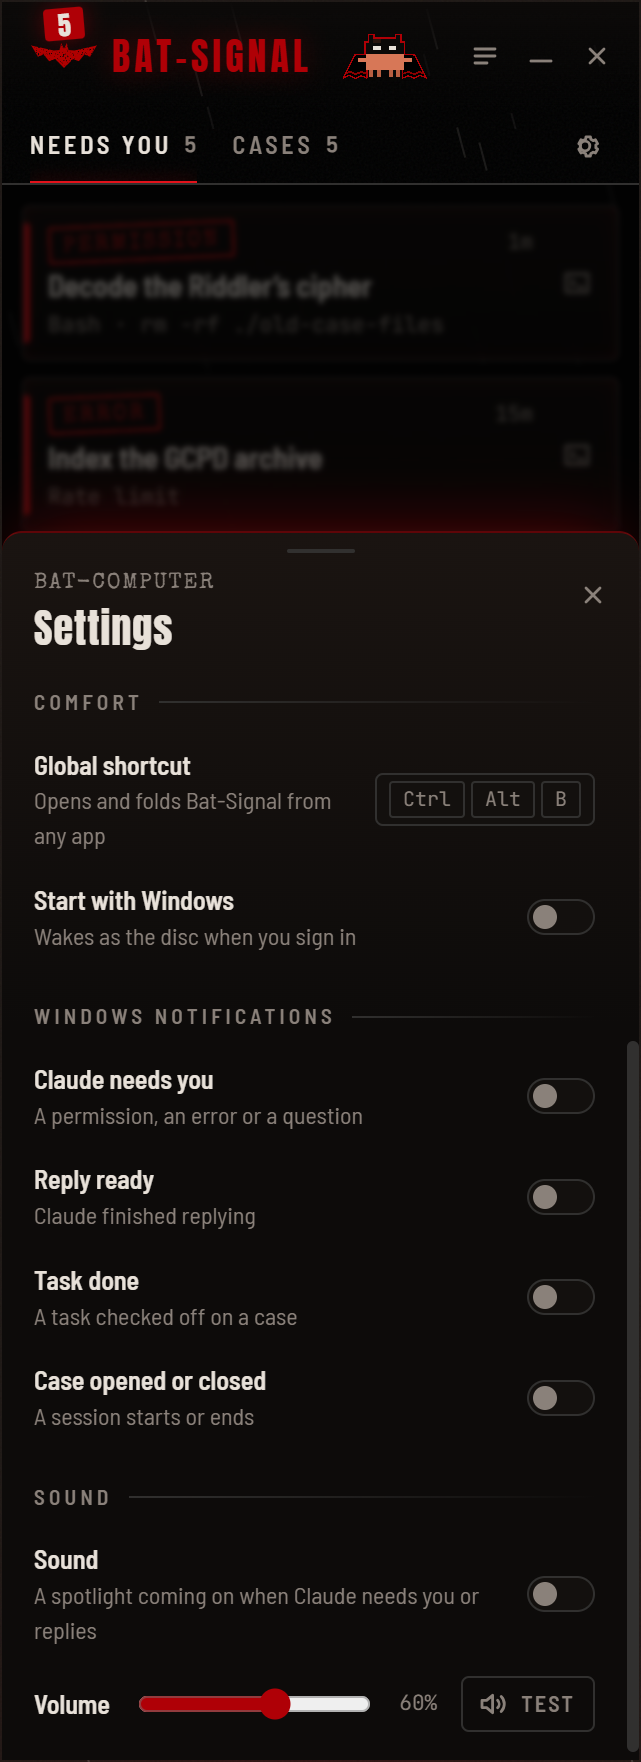
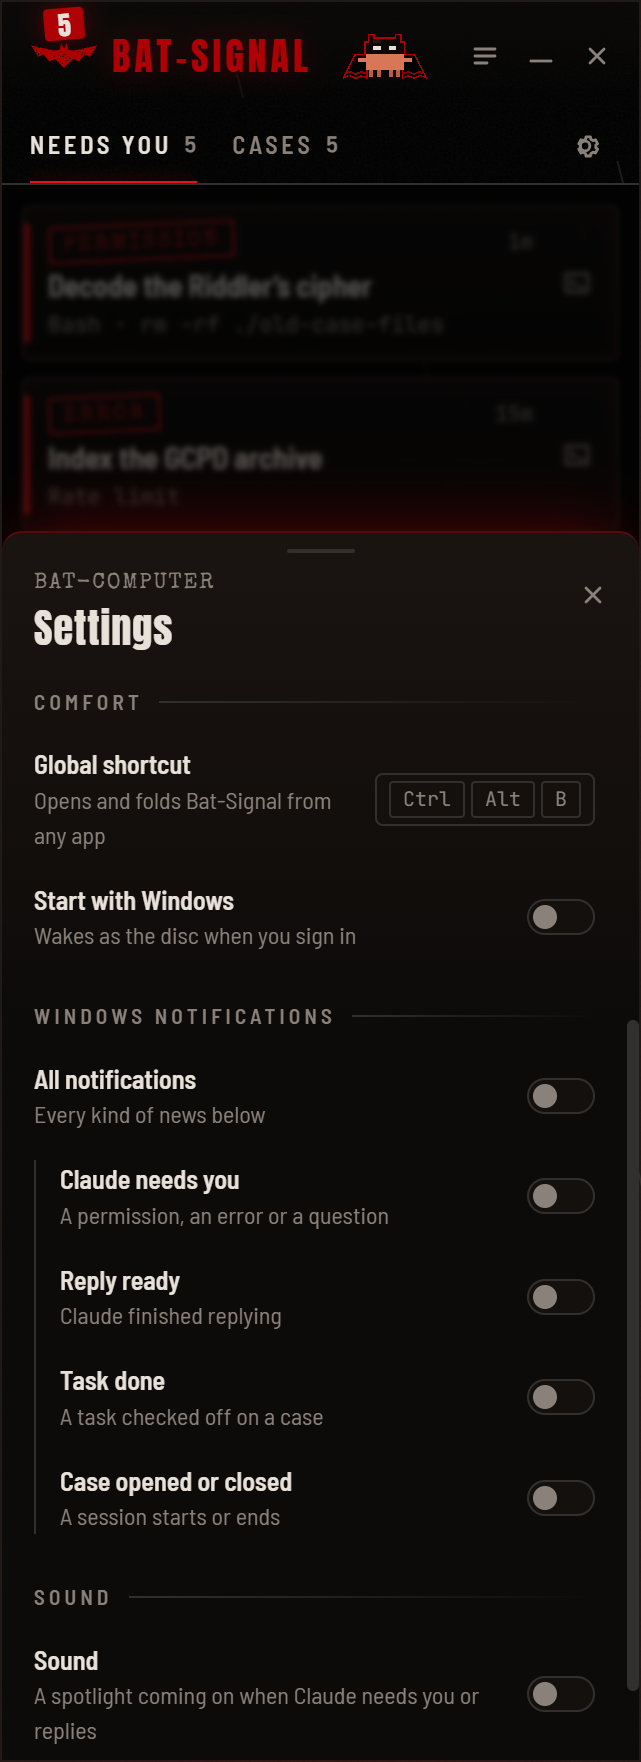
docs: All notifications in the README and the Comfort screenshot
Refs #65

diff --git a/README.md b/README.md
@@ -87,7 +87,7 @@ The bat by the clock is Bat-Signal's tray icon, lit red while something needs yo
 
 **Start with Windows** (Settings → Comfort) has Bat-Signal wake as the disc when you sign in, without taking the focus. The switch shows what Windows will do: turn the entry off in Task Manager's Startup apps and the switch says so.
 
-**Windows notifications** (Settings → Windows notifications, all off at first) add a Windows toast to the Bat-Signal for the kinds of news you pick: Claude needs you, a reply is ready, a task is done, a case opened or closed. A burst of news is one toast (the most urgent, with a count of the rest), the same news never comes twice, and none come while the panel is the window in front. Click one to open its case.
+**Windows notifications** (Settings → Windows notifications, all off at first) add a Windows toast to the Bat-Signal for the kinds of news you pick: Claude needs you, a reply is ready, a task is done, a case opened or closed. **All notifications** turns them all on or off at once. A burst of news is one toast (the most urgent, with a count of the rest), the same news never comes twice, and none come while the panel is the window in front. Click one to open its case.
 
 **Sound** (Settings → Sound, off at first) gives news a voice: a spotlight coming on when Claude needs you or replies. A burst of news is one sound, at most one every four seconds, at the volume you set (Test plays it). It keeps quiet while the panel is in front, while something runs full screen or a presentation is on, and still plays while Bat-Signal is hidden in the tray. Windows 11's Do Not Disturb is not reported to apps, so it does not hush the sound; the toasts do follow it. To ask Windows quickly, Bat-Signal keeps one PowerShell open while sound is on (the terminal button shares it). The sound is made from CC0 recordings, credited in [`app/src/renderer/src/assets/sounds/`](app/src/renderer/src/assets/sounds/LICENSE.md).
 
